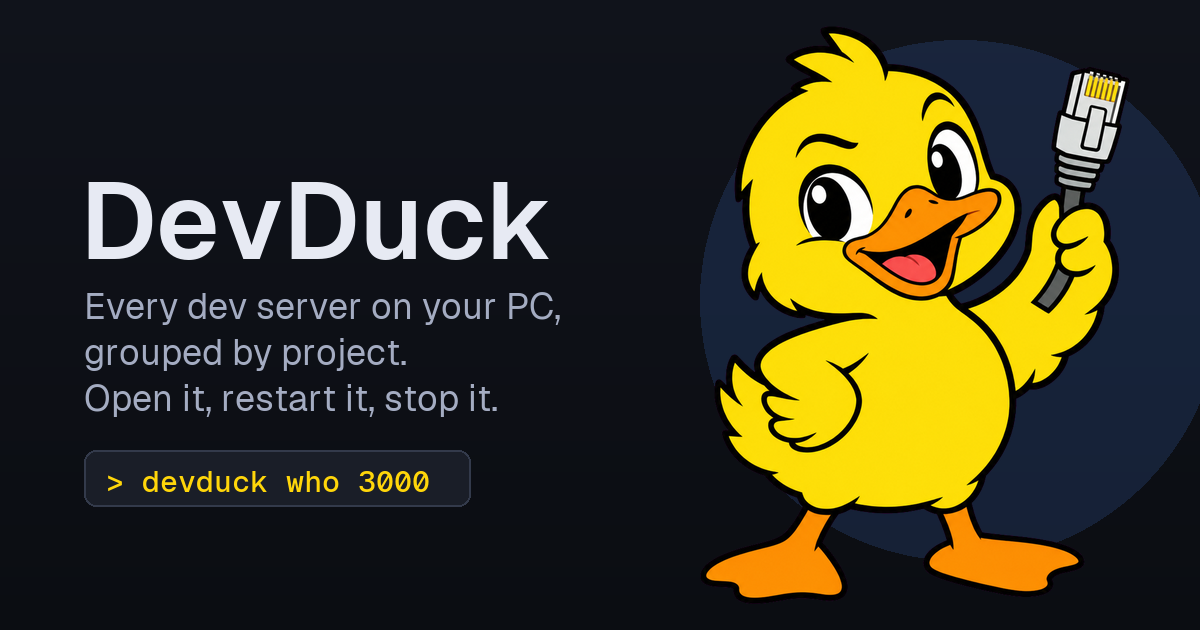
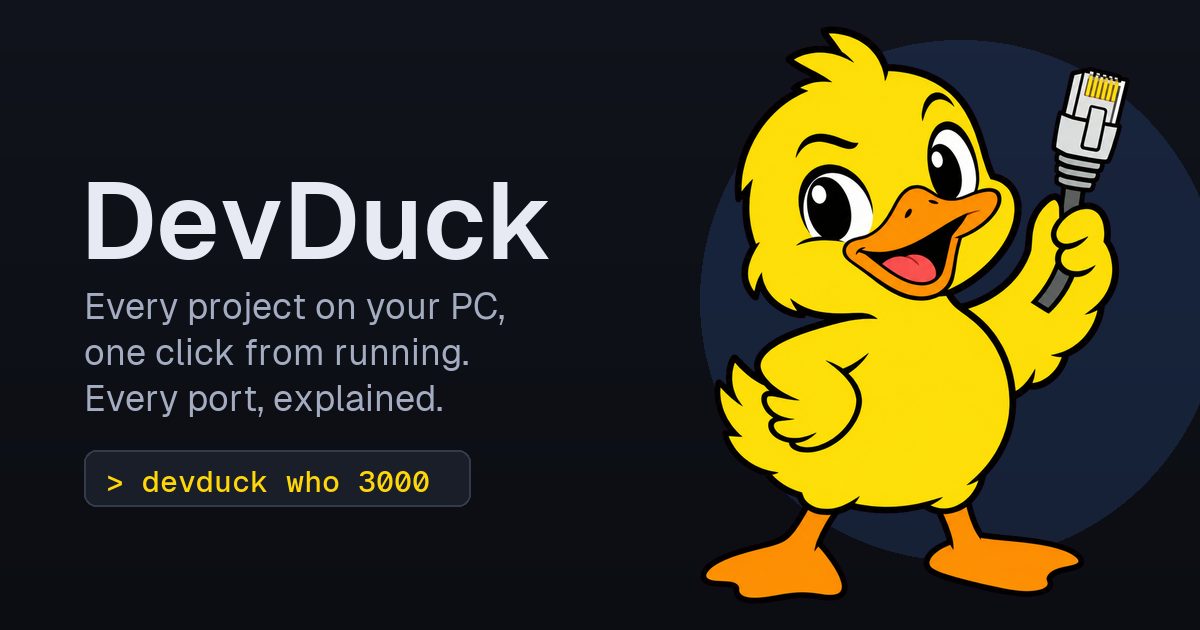
Site and README for the control-first app
New hero, features, a project page section and screenshots (demo data), keyboard shortcuts and privacy notes that match what DevDuck does now: it finds and starts projects, runs scripts only when you press Start, and reads git locally without fetching. The social image says the same. The list-view screenshot is gone with the list view's prominence.

Changed region(s): [[0.0617, 0.5429, 0.4317, 0.6635], [0.1542, 0.4524, 0.4625, 0.5127]]

diff --git a/docs/index.html b/docs/index.html
@@ -3,15 +3,15 @@
 <head>
 <meta charset="utf-8">
 <meta name="viewport" content="width=device-width, initial-scale=1">
-<title>DevDuck — every dev server on your PC</title>
-<meta name="description" content="DevDuck is a free Windows app and CLI that shows every dev server on your PC, grouped by project, with one click to open, restart or stop the whole process tree.">
+<title>DevDuck — start, stop and open every project on your PC</title>
+<meta name="description" content="DevDuck is a free Windows app and CLI that finds your projects and starts them with one click, shows their output and git status, and says what's on every port, with one click to open, restart or stop the whole process tree.">
 <meta name="theme-color" content="#0D0F14">
 <meta name="color-scheme" content="dark">
 <link rel="icon" type="image/png" href="favicon.png">
 <link rel="apple-touch-icon" href="apple-touch-icon.png">
 <meta property="og:type" content="website">
-<meta property="og:title" content="DevDuck — every dev server on your PC">
-<meta property="og:description" content="See what's on every port, grouped by project. Open, restart or stop the whole process tree. Free for Windows.">
+<meta property="og:title" content="DevDuck — start, stop and open every project on your PC">
+<meta property="og:description" content="Find your projects and start them with one click. See their output, their git status and what's on every port. Free for Windows.">
 <meta property="og:url" content="https://devduck.drhalto.com/">
 <meta property="og:image" content="https://devduck.drhalto.com/img/og.png">
 <meta property="og:image:width" content="1200">
@@ -223,8 +223,8 @@ kbd { font-size: 13px; padding: 1px 7px; border: 1px solid var(--border-hi); bor
     <div class="wrap hero-grid">
       <div>
         <span class="eyebrow"><span class="dot" aria-hidden="true"></span>Free for Windows 10 &amp; 11</span>
-        <h1>Every dev server on your PC. <span class="quack">Sorted.</span></h1>
-        <p class="lede">DevDuck shows what's listening on every port, grouped by project, and says what each one is. One click opens, restarts or stops the whole thing.</p>
+        <h1>Every project on your PC. <span class="quack">One click away.</span></h1>
+        <p class="lede">DevDuck finds your projects and their scripts, starts any of them with one click, and tells you what each one is doing. It also knows what's on every port, so one click opens, restarts or stops the whole thing.</p>
         <div class="ctas">
           <a class="btn btn-primary" href="#install">
             <svg viewBox="0 0 20 20" fill="none" stroke="currentColor" stroke-width="2" aria-hidden="true"><path d="M10 3v10m0 0l-4-4m4 4l4-4M4 16h12" stroke-linecap="round" stroke-linejoin="round"/></svg>
@@ -248,9 +248,9 @@ kbd { font-size: 13px; padding: 1px 7px; border: 1px solid var(--border-hi); bor
     <div class="wrap">
       <figure class="shot" style="margin-top:56px">
         <div class="bar" aria-hidden="true"><img src="favicon.png" alt="">DevDuck</div>
-        <img src="img/screenshot.png" alt="The DevDuck window: a sidebar with views and favorites, cards for each dev server showing its framework, ports, page title, HTTP status, memory, CPU and uptime, and a detail drawer with actions, ports and a QR code." width="1770" height="1140">
+        <img src="img/screenshot.png" alt="The DevDuck window: running projects as cards that say what each is doing (Ready, its page title and the last line it printed) with Open, restart, stop and output buttons; below, tiles to pick up where you left off, including one that crashed; a sidebar with Projects, Ports, a stack and favorites." width="1770" height="1140">
       </figure>
-      <p class="caption">Demo data. Every card is a project; the drawer has its ports, process tree, command, logs and a QR code for your phone.</p>
+      <p class="caption">Demo data. Running projects up top, then the ones you're likely to start next, then everything else.</p>
     </div>
   </div>
 
@@ -284,58 +284,69 @@ Stopped acme-storefront (6 processes); freed 3000</pre>
   <section id="features" aria-labelledby="features-h">
     <div class="wrap">
       <p class="kicker">What it does</p>
-      <h2 id="features-h">A dashboard for the servers you forgot you started</h2>
-      <p class="sub">It refreshes every couple of seconds and works with whatever you already run: Next.js, Vite, Remotion, Astro, Storybook, Python, .NET or Docker.</p>
+      <h2 id="features-h">Start things. See what they're doing.</h2>
+      <p class="sub">It works with whatever you already run: Next.js, Vite, Remotion, Astro, Storybook, Django, Python, .NET or Docker.</p>
       <div class="features">
         <article class="card feature">
-          <div class="ico" aria-hidden="true"><svg viewBox="0 0 20 20" fill="none" stroke="currentColor" stroke-width="1.7"><rect x="2.5" y="3" width="6" height="6" rx="1.5"/><rect x="11.5" y="3" width="6" height="6" rx="1.5"/><rect x="2.5" y="11" width="6" height="6" rx="1.5"/><rect x="11.5" y="11" width="6" height="6" rx="1.5"/></svg></div>
-          <h3>Grouped by project, not by PID</h3>
-          <p>DevDuck walks each process tree past <code>npm</code>, <code>vite</code>, <code>next</code>, <code>uvicorn</code> and friends to find the project folder that owns a port, so five ports from one <code>next dev</code> show up as one card.</p>
+          <div class="ico" aria-hidden="true"><svg viewBox="0 0 20 20" fill="none" stroke="currentColor" stroke-width="1.7" stroke-linecap="round" stroke-linejoin="round"><path d="M6 4.5v11l9-5.5z"/></svg></div>
+          <h3>Every project, one click to start</h3>
+          <p>DevDuck finds the <code>package.json</code>, <code>deno.json</code> and <code>manage.py</code> projects in your folders and lists their scripts. <strong>Start</strong> runs the dev script with the package manager your lockfile names; the arrow beside it runs any other.</p>
         </article>
         <article class="card feature">
-          <div class="ico" aria-hidden="true"><svg viewBox="0 0 20 20" fill="none" stroke="currentColor" stroke-width="1.7"><circle cx="10" cy="10" r="7"/><path d="M10 6v4l2.5 2.5" stroke-linecap="round"/></svg></div>
-          <h3>Knows what it is</h3>
-          <p>Framework badge, the page's real <code>&lt;title&gt;</code>, HTTP status and response time, and which port is the web port.</p>
+          <div class="ico" aria-hidden="true"><svg viewBox="0 0 20 20" fill="none" stroke="currentColor" stroke-width="1.7" stroke-linecap="round" stroke-linejoin="round"><path d="M3.5 5.5h13M3.5 10h9M3.5 14.5h6"/></svg></div>
+          <h3>Says what it's doing</h3>
+          <p>Not <em>HTTP 307</em> but <em>Ready · sends you to /login</em>. Each running project shows its page's real <code>&lt;title&gt;</code> and the last line its server printed.</p>
         </article>
         <article class="card feature">
-          <div class="ico" aria-hidden="true"><svg viewBox="0 0 20 20" fill="currentColor"><rect x="5" y="5" width="10" height="10" rx="2"/></svg></div>
-          <h3>Stops the whole tree</h3>
-          <p>No orphaned workers. The confirmation says exactly what will end, and Windows system processes are off-limits.</p>
+          <div class="ico" aria-hidden="true" style="color:var(--amber)"><svg viewBox="0 0 20 20" fill="none" stroke="currentColor" stroke-width="1.7" stroke-linecap="round" stroke-linejoin="round"><path d="M10 3.5l7 12.5H3z"/><path d="M10 8.5v3.5M10 14.2v.1"/></svg></div>
+          <h3>Crashes you can see</h3>
+          <p>Everything DevDuck starts has its output captured. If it dies, its card turns red with the exit code and its page shows the last lines, so you know why before you open a terminal.</p>
         </article>
         <article class="card feature">
-          <div class="ico" aria-hidden="true"><svg viewBox="0 0 20 20" fill="none" stroke="currentColor" stroke-width="1.7" stroke-linecap="round"><path d="M15.5 7.5A6 6 0 104.5 12"/><path d="M15.8 3.5v4h-4"/></svg></div>
-          <h3>Restart with logs</h3>
-          <p>Restart re-runs the exact command in the same folder and captures its output, so the drawer can show you the logs.</p>
+          <div class="ico" aria-hidden="true"><svg viewBox="0 0 20 20" fill="none" stroke="currentColor" stroke-width="1.7" stroke-linecap="round" stroke-linejoin="round"><rect x="3" y="7" width="6" height="6" rx="1.5"/><rect x="11" y="7" width="6" height="6" rx="1.5"/><path d="M9 10h2"/></svg></div>
+          <h3>Port clashes, solved</h3>
+          <p>Something already on <code>:3000</code>? Start offers the next free port and passes it the way your framework expects, or stops whatever holds it first. Stopping always ends the whole process tree.</p>
         </article>
         <article class="card feature">
-          <div class="ico" aria-hidden="true" style="color:var(--duck)"><svg viewBox="0 0 20 20" fill="currentColor"><path d="M10 2.2l2.3 4.9 5.3.6-3.9 3.7 1 5.3L10 14.1l-4.7 2.6 1-5.3L2.4 7.7l5.3-.6z"/></svg></div>
-          <h3>Favorites you can start</h3>
-          <p>Star a project or container and it stays in the sidebar even when it's stopped. Press ▶, or <em>Start all</em> to bring your whole stack up.</p>
+          <div class="ico" aria-hidden="true"><svg viewBox="0 0 20 20" fill="none" stroke="currentColor" stroke-width="1.7" stroke-linecap="round" stroke-linejoin="round"><path d="M10 3l7 3.5-7 3.5-7-3.5z"/><path d="M3 10l7 3.5 7-3.5M3 13.5l7 3.5 7-3.5"/></svg></div>
+          <h3>Stacks</h3>
+          <p>Group the things you run together (the app, its Postgres, its Redis) and start or stop them with one click. Containers come up first.</p>
         </article>
         <article class="card feature">
-          <div class="ico" aria-hidden="true"><svg viewBox="0 0 20 20" fill="none" stroke="currentColor" stroke-width="1.7" stroke-linecap="round" stroke-linejoin="round"><path d="M2.5 14l4-5 3.5 3 3.5-6 4 4"/></svg></div>
-          <h3>Live, honest stats</h3>
-          <p>CPU and memory for the whole process tree, with sparklines. That's what stopping it would actually free.</p>
+          <div class="ico" aria-hidden="true"><svg viewBox="0 0 20 20" fill="none" stroke="currentColor" stroke-width="1.7" stroke-linecap="round" stroke-linejoin="round"><circle cx="6" cy="5" r="1.8"/><circle cx="6" cy="15" r="1.8"/><circle cx="14" cy="7.5" r="1.8"/><path d="M6 6.8v6.4M14 9.3c0 3-4 2.5-8 4"/></svg></div>
+          <h3>Git at a glance</h3>
+          <p>Branch, uncommitted changes, commits to push or pull, and the last commit, read locally with <code>git</code>. No account. <strong>Open on GitHub</strong> is one click from the project's page.</p>
         </article>
         <article class="card feature">
-          <div class="ico" aria-hidden="true"><svg viewBox="0 0 20 20" fill="none" stroke="currentColor" stroke-width="1.7"><rect x="6" y="2.5" width="8" height="15" rx="2"/><path d="M9 14.5h2" stroke-linecap="round"/></svg></div>
+          <div class="ico" aria-hidden="true"><svg viewBox="0 0 20 20" fill="none" stroke="currentColor" stroke-width="1.7" stroke-linecap="round" stroke-linejoin="round"><path d="M7 6.5a2 2 0 1 0-2 2h10a2 2 0 1 0-2-2v7a2 2 0 1 0 2-2H5a2 2 0 1 0 2 2z"/></svg></div>
+          <h3>Ctrl K for anything</h3>
+          <p>Type a few letters: <em>start docs</em>, <em>stop acme</em>, <em>run storybook</em>, <em>open 5173</em>, <em>what's on 3000</em>.</p>
+        </article>
+        <article class="card feature">
+          <div class="ico" aria-hidden="true"><svg viewBox="0 0 20 20" fill="none" stroke="currentColor" stroke-width="1.7" stroke-linecap="round" stroke-linejoin="round"><rect x="2.5" y="3" width="6" height="6" rx="1.5"/><rect x="11.5" y="3" width="6" height="6" rx="1.5"/><rect x="2.5" y="11" width="6" height="6" rx="1.5"/><rect x="11.5" y="11" width="6" height="6" rx="1.5"/></svg></div>
+          <h3>Every port, explained</h3>
+          <p>The Ports view shows every listener grouped by project folder, so five ports from one <code>next dev</code> are one card, with live CPU and memory for the whole tree. Docker containers get their own cards.</p>
+        </article>
+        <article class="card feature">
+          <div class="ico" aria-hidden="true"><svg viewBox="0 0 20 20" fill="none" stroke="currentColor" stroke-width="1.7" stroke-linecap="round" stroke-linejoin="round"><rect x="6" y="2.5" width="8" height="15" rx="2"/><path d="M9.5 14.5h1"/></svg></div>
           <h3>Test on your phone</h3>
           <p>See which servers your LAN can reach and scan a QR code to open one on your phone. If it's localhost-only, DevDuck tells you the flag to fix that.</p>
-        </article>
-        <article class="card feature">
-          <div class="ico" aria-hidden="true" style="color:var(--cyan)"><svg viewBox="0 0 20 20" fill="none" stroke="currentColor" stroke-width="1.7" stroke-linejoin="round"><path d="M10 2l7 3.8v8.4L10 18l-7-3.8V5.8z"/><path d="M3 5.8L10 10l7-4.2M10 10v8"/></svg></div>
-          <h3>Docker aware</h3>
-          <p>Containers that publish ports get their own cards with image, uptime and <code>docker logs</code>. Stop, restart and start work too.</p>
-        </article>
-        <article class="card feature">
-          <div class="ico" aria-hidden="true"><svg viewBox="0 0 20 20" fill="none" stroke="currentColor" stroke-width="1.7" stroke-linecap="round" stroke-linejoin="round"><path d="M6.5 6L3 10l3.5 4M13.5 6L17 10l-3.5 4M11.5 4l-3 12"/></svg></div>
-          <h3>Jump straight in</h3>
-          <p>Open in the browser, copy the URL, or open the folder in VS Code, Cursor or a terminal.</p>
         </article>
       </div>
     </div>
   </section>
 
+  <section aria-labelledby="page-h">
+    <div class="wrap">
+      <p class="kicker">A page per project</p>
+      <h2 id="page-h">Everything about one project, in one place</h2>
+      <p class="sub">Its status, scripts, stacks and git on Overview; live output on Output; ports, process tree, command and a QR code on Details.</p>
+      <figure class="shot" style="margin-top:32px">
+        <div class="bar" aria-hidden="true"><img src="favicon.png" alt="">DevDuck</div>
+        <img src="img/screenshot-page.png" alt="A project's page in DevDuck: Open, Restart and Stop buttons, its HTTP status and page title, a Git section showing the main branch with 3 uncommitted files and 1 commit to push, the last commit and an Open on GitHub button, then its scripts." width="1770" height="1140" loading="lazy">
+      </figure>
+    </div>
+  </section>
   <section id="cli" aria-labelledby="cli-h">
     <div class="wrap">
       <p class="kicker">Command line</p>
@@ -410,10 +421,11 @@ cd devduck
         <table class="cmds" style="margin-top:10px">
           <caption class="visually-hidden">Keyboard shortcuts</caption>
           <tbody>
-            <tr><td><kbd>Ctrl</kbd> <kbd>K</kbd></td><td>Search apps, ports, folders, frameworks and page titles</td></tr>
-            <tr><td><kbd>↑</kbd> <kbd>↓</kbd></td><td>Move between servers</td></tr>
-            <tr><td><kbd>Enter</kbd></td><td>Open in the browser</td></tr>
-            <tr><td><kbd>Del</kbd></td><td>Stop the selected server</td></tr>
+            <tr><td><kbd>Ctrl</kbd> <kbd>K</kbd></td><td>Command palette: start, stop, open or run anything by name</td></tr>
+            <tr><td><kbd>Ctrl</kbd> <kbd>F</kbd></td><td>Filter projects, ports, folders, branches and page titles</td></tr>
+            <tr><td><kbd>↑</kbd> <kbd>↓</kbd></td><td>Move between projects</td></tr>
+            <tr><td><kbd>Enter</kbd></td><td>Start the selected project, or open it if it's running</td></tr>
+            <tr><td><kbd>Del</kbd></td><td>Stop the selected project</td></tr>
             <tr><td><kbd>Ctrl</kbd> <kbd>B</kbd></td><td>Show or hide the sidebar</td></tr>
             <tr><td><kbd>F5</kbd></td><td>Refresh now</td></tr>
           </tbody>
@@ -427,13 +439,13 @@ cd devduck
       <div>
         <p class="kicker">Safety &amp; privacy</p>
         <h2 id="privacy-h">It only touches what you point at</h2>
-        <p class="sub">DevDuck runs entirely on your machine. There's no account, no telemetry and no network calls beyond your own <code>localhost</code>.</p>
+        <p class="sub">DevDuck runs entirely on your machine. There's no account, no telemetry and no network calls beyond your own <code>localhost</code>. Git info comes from the <code>git</code> on your PC, and it never fetches or pushes.</p>
       </div>
       <ul>
         <li><svg viewBox="0 0 20 20" fill="none" stroke="currentColor" stroke-width="2" aria-hidden="true"><path d="M4 10.5l4 4 8-9" stroke-linecap="round" stroke-linejoin="round"/></svg><span><strong>Never walks into shells, editors or Windows services.</strong> Explorer, terminals, VS Code, Cursor and core services are protected, and system processes are never killed from the CLI.</span></li>
-        <li><svg viewBox="0 0 20 20" fill="none" stroke="currentColor" stroke-width="2" aria-hidden="true"><path d="M4 10.5l4 4 8-9" stroke-linecap="round" stroke-linejoin="round"/></svg><span><strong>Only re-runs commands it saw.</strong> Restart, Start and favorites use the command DevDuck saw running from that folder, nothing else.</span></li>
+        <li><svg viewBox="0 0 20 20" fill="none" stroke="currentColor" stroke-width="2" aria-hidden="true"><path d="M4 10.5l4 4 8-9" stroke-linecap="round" stroke-linejoin="round"/></svg><span><strong>Only runs what you could run yourself.</strong> Start runs a script from the project's own <code>package.json</code>, <code>deno.json</code> or <code>manage.py</code>, or the command DevDuck saw running from that folder. Nothing runs until you press Start.</span></li>
         <li><svg viewBox="0 0 20 20" fill="none" stroke="currentColor" stroke-width="2" aria-hidden="true"><path d="M4 10.5l4 4 8-9" stroke-linecap="round" stroke-linejoin="round"/></svg><span><strong>One polite HTTP check.</strong> A single <code>GET /</code> to each dev-server port when it appears, and again when you ask. It never probes databases, apps, containers or internal ports, and you can turn it off.</span></li>
-        <li><svg viewBox="0 0 20 20" fill="none" stroke="currentColor" stroke-width="2" aria-hidden="true"><path d="M4 10.5l4 4 8-9" stroke-linecap="round" stroke-linejoin="round"/></svg><span><strong>Your data stays put.</strong> Settings, favorites and logs live in <code>%APPDATA%\DevDuck</code>.</span></li>
+        <li><svg viewBox="0 0 20 20" fill="none" stroke="currentColor" stroke-width="2" aria-hidden="true"><path d="M4 10.5l4 4 8-9" stroke-linecap="round" stroke-linejoin="round"/></svg><span><strong>Your data stays put.</strong> It reads project files only from the folders you choose (your home folder by default). Settings, favorites, stacks and logs live in <code>%APPDATA%\DevDuck</code>.</span></li>
       </ul>
     </div>
   </section>
@@ -444,7 +456,7 @@ cd devduck
         <img src="img/devduck-thumbs.png" alt="DevDuck wearing headphones and giving a thumbs up" width="360" height="526">
         <div>
           <h2 id="why-h">Why a duck?</h2>
-          <p>Rubber-duck debugging, but this duck actually knows what's on port 3000. It also beats calling the app "Port Listener Utility".</p>
+          <p>Rubber-duck debugging, but this duck actually knows what's on port 3000, and can start the thing you meant to run. It also beats calling the app "Port Listener Utility".</p>
           <p style="margin-top:18px"><a class="btn btn-primary" href="https://github.com/drhalto/devduck">Get DevDuck on GitHub</a></p>
         </div>
       </div>

diff --git a/scripts/make-brand.py b/scripts/make-brand.py
@@ -93,7 +93,7 @@ body = ImageFont.truetype(str(fonts / "Geist-Regular.ttf"), 36)
 mono = ImageFont.truetype(str(fonts / "GeistMono-Medium.ttf"), 30)
 d = ImageDraw.Draw(card)
 d.text((80, 150), "DevDuck", font=title, fill=(0xE7, 0xEA, 0xF3))
-for i, line in enumerate(["Every dev server on your PC,", "grouped by project.", "Open it, restart it, stop it."]):
+for i, line in enumerate(["Every project on your PC,", "one click from running.", "Every port, explained."]):
     d.text((84, 282 + i * 46), line, font=body, fill=(0xA4, 0xAC, 0xC2))
 d.rounded_rectangle((84, 450, 470, 506), radius=12, fill=(0x1A, 0x1E, 0x28), outline=(0x33, 0x3A, 0x4B), width=2)
 d.text((106, 461), "> devduck who 3000", font=mono, fill=(0xFF, 0xD6, 0x0A))

diff --git a/README.md b/README.md
@@ -12,23 +12,23 @@ If you run a lot of dev servers, you know the pain: something's holding port 300
 
 ## What it does
 
-- **Every project, running or not.** DevDuck looks through your home folder (or the folders you pick in Settings) for `package.json`, `deno.json` and `manage.py`, and lists each project that has something to serve. Running ones are cards with their main action up front (**Open :3000**, or **Restart** when it's throwing 500s); the rest are rows with a **Start** button and a picker for any other script (`dev`, `storybook`, `preview`...). It uses the right package manager (npm, pnpm, yarn, bun) from the lockfile.
+- **Every project, running or not.** DevDuck looks through your home folder (or the folders you pick in Settings) for `package.json`, `deno.json` and `manage.py`, and lists each project that has something to serve. Running ones are cards that say what they're doing (*Ready · sends you to /login*) with their main action up front (**Open :3000**, or **Restart** when it's throwing 500s). Below them, *Pick up where you left off* holds what you ran last (crashes first), then a quiet list of everything else, with a **Start** button and a picker for any other script (`dev`, `storybook`, `preview`...). It uses the right package manager (npm, pnpm, yarn, bun) from the lockfile.
 - **Where each project stands in git.** Branch, uncommitted changes, commits to push or pull, and the last commit, read locally with the git CLI (no account needed), plus an Open on GitHub button. Projects show their own icon when they have one.
 - **Output you can see.** Anything DevDuck starts runs with its output captured: the card shows the last line while it boots, and the project's page has a live **Output** tab. If it crashes, the card turns red with the exit code and the page shows the last lines.
-- **Port conflicts fixed for you.** If something already holds the port a project wants, Start says so and offers to stop that first.
+- **Port clashes solved.** If something already holds the port a project wants, Start offers the next free port (passed as `--port`, runserver's argument and `PORT`), or stopping whatever holds it.
 - **Stacks.** Group the projects and containers you run together (the app, its Postgres, its Redis) and start or stop them with one click. Containers start first.
 - **A command palette.** `Ctrl K`, type a few letters: *start docs*, *stop acme*, *run storybook*, *open 5173*, *what's on 3000*.
 - **One card per dev server.** Listeners are grouped by project folder (walking the process tree past npm/vite/next runners), so five ports from one `next dev` are one card, not five.
 - **Says what it is.** Framework badge (Next.js, Vite, Remotion, Astro, Storybook, Uvicorn, Django...) from the command line and `package.json`; the page's real `<title>`; HTTP status and latency; which port is the web port and which are internal.
 - **Live.** Rescans every 2 s (adjustable, or pause), with CPU and memory sparklines. Memory and CPU cover the **whole process tree**, which is what stopping it would free.
-- **Restart and Start.** Restart stops the tree and re-runs the exact command in the same folder. Stopped projects stay under *Recently stopped* with a **Start** button. Servers DevDuck starts have their output captured, and the drawer shows their logs.
-- **Favorites in a sidebar.** Star a dev project or container and it stays in the sidebar whether it's running or not: a live status dot while it's up, a **▶** to start it when it's down (dev servers re-run their remembered command; containers get `docker start`), **Start all** for the stopped ones, and a right-click menu. The sidebar also holds the All / Dev / Docker / Apps / Windows views; hide it with `Ctrl B`.
+- **Restart.** Restart stops the tree and re-runs the same script or exact command in the same folder, on the same port.
+- **Favorites in a sidebar.** Star a dev project or container and it stays in the sidebar whether it's running or not: a live status dot while it's up, a **▶** to start it when it's down (dev servers re-run their remembered command; containers get `docker start`), **Start all** for the stopped ones, and a right-click menu. The sidebar also switches between Projects and Ports (whose All / Containers / Apps / Windows lenses are tabs), and lists your stacks; hide it with `Ctrl B`.
 - **A page per project** with Overview (status, scripts, stacks), Output, and Details: ports with bind addresses (localhost-only vs. reachable on your LAN), a **QR code** to open it on your phone, the process tree, the command line and working directory, plus logs (Docker logs for containers).
 - **Docker aware.** Ports published by containers show as container cards (name, image, uptime). Stop is `docker stop`, Restart is `docker restart`.
 - **Jump-offs:** open in browser, copy URL, open the folder, open it in VS Code or Cursor, open a terminal there.
 - **A real CLI** for scripts and agents: `devduck who 3000`, `devduck kill 3000`, `devduck list --json`.
 
-![List view](screenshot-list.png)
+![A project's page](screenshot-page.png)
 
 ## Install
 
